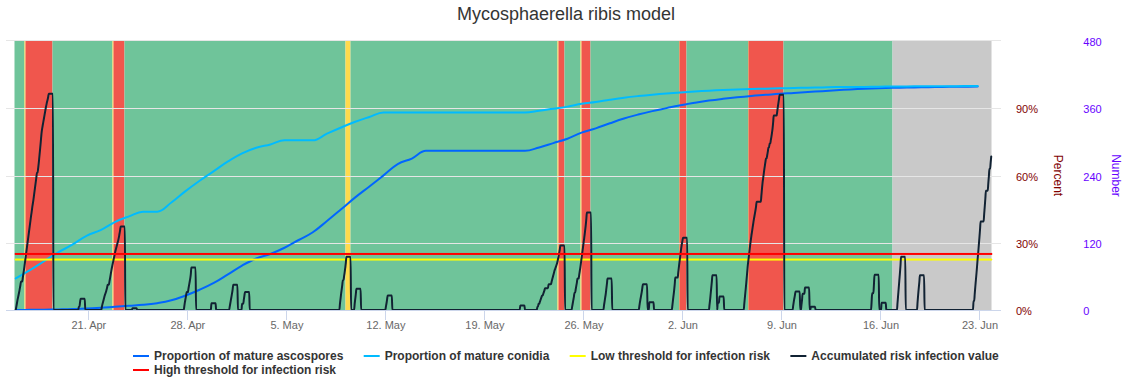
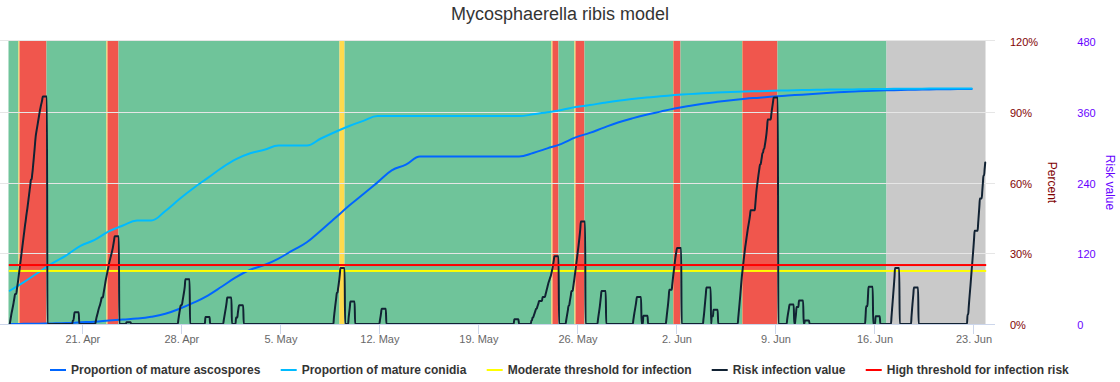
chore: Complete English description

diff --git a/src/test/java/no/nibio/vips/model/mycosribis/MycosphaerellaRibisModelTest.java b/src/test/java/no/nibio/vips/model/mycosribis/MycosphaerellaRibisModelTest.java
@@ -185,7 +185,7 @@ public class MycosphaerellaRibisModelTest {
     public void testGetModelName_0args() {
         System.out.println("getModelName");
         MycosphaerellaRibisModel instance = new MycosphaerellaRibisModel();
-        String expResult = "Mycosphaerella ribis model";
+        String expResult = "Model for Leaf Spot in Blackcurrant";
         String result = instance.getModelName();
         assertEquals(expResult, result);
     }

diff --git a/README.md b/README.md
@@ -1,30 +1,49 @@
 <img src="vipslogo_512.png" alt="VIPS Logo" height="250"/>
 
-# Mycosphaerella ribis in Blackcurrant
+# Leaf Spot (*Mycosphaerella ribis*) in Blackcurrant
 **&copy; 2026 NIBIO**
 
 **Arne Stensvand, Håvard Eikemo, Anne-Grete Roer Hjelkrem**
 
-Disease symptoms, sources of inoculum, and patterns of spore release of Mycosphaerella ribis, the 
-cause of Mycosphaerella leaf spot, were studied over three years in an organic blackcurrant planting 
-receiving no fungicide applications. In addition to typical foliar symptoms, also fruit lesions were 
-observed on the cultivars included in the study. Ascospores from leaf litter on the ground were trapped 
-from bud break in April to mid-to-late July, but 99% were released by one month before. Conidia 
-formed in old fruit cluster stalks overwintering on the blackcurrant shrubs were present from bud 
-break to early August, but 99% were trapped from late May to mid-July. Conidia were found in leaf 
-litter but were never captured in the spore trap, and ascospores were observed in old fruit cluster 
-stalks. Degree-day models (base = 0˚C) were used to estimate the proportion of mature spores. 
-Extended periods of dry conditions slowed spore maturation in the field. Models halting degree-day 
-accumulation after 4 or 7 days with no rain (< 0.2 mm) or leaf wetness of < 12 h per day, gave the best 
-performance for release of conidia or ascospores, respectively, if validated by data from controlled 
-conditions in the laboratory. Ascospore release was suppressed during night, and if rain and wetness 
-started during night and continued the following day, very few spores were released before sunrise. 
+The model indicates whether there is a risk of infection by the fungus *Mycosphaerella ribis*, which causes Mycosphaerella leaf spot in blackcurrant. The model is likely also suitable for forecasting infection by *Drepanopeziza ribis*, which causes anthracnose and leaf drop in the same crop. The two fungi have very similar life cycles and overlapping periods for spore dispersal and infection. There is considerable variation in susceptibility to Mycosphaerella leaf spot among blackcurrant cultivars used in Norway, but important cultivars such as ‘Ben Tron’ and ‘Ben Nare’ are highly susceptible. 
 
+*Drepanopeziza ribis* overwinters as fruiting bodies in old leaves on the ground, where ascospores are formed and will be dispersed by wind during moist weather in spring. It also overwinters in old berry cluster stalks that remain on the bushes after machine harvesting, and from these, conidiospores (conidia) are splash dispersed by rain or overhead irrigation. The model describes spore maturation and the periods when dispersal of both ascospores and conidia may occur, which to a large extent happens during the same period in spring. At the same time, the model indicates when infection risk is present. 
 
-The present investigation provides new information that may be used when planning sanitary 
-measures to reduce primary inoculum and predict spore release patterns for Mycosphaerella leaf spot.
+<img src="src/main/resources/images/description_figure_1.png"/>
 
+*Fig 1. Leaf spot on fresh leaves (A). In spring, infection arises from ascospores produced in fruiting bodies in old leaves on the ground (B), and from conidia produced on old berry cluster stalks on the shoots (C). Photos: A. Stensvand.*
+
+Spores are normally dispersed from before bud break until mid-June, although this varies somewhat between years. The most important period of spore dispersal is typically from a couple of weeks before to a couple of weeks after flowering. Maturation of both spore types in overwintered plant material depends on moisture. If there are extended periods without precipitation and moist conditions, maturation will therefore slow down or stop. Such dry periods are accounted for in the model. There is a diurnal rhythm in ascospore dispersal, with minimal dispersal at night. This is not adjusted for in the model because dispersal of conidia is not affected by light. 
+
+Moisture is required for infection, and the infection period depends on temperature, with the shortest infection time occurring around 20°C. No separate infection model has been developed for *M. ribis*, but we use the same model as for apple scab (*Venturia inaequalis*), because the two fungi are closely related and presumably have similar infection dynamics. 
+
+ 
+
+## Interpretation of the Forecast 
+
+Green indicates periods with no infection risk. Yellow indicates periods where some spores have been dispersed, and that infection is beginning or may have occurred. “Some” spore dispersal means that less than 3% of the spores (relative to the amount predicted for the entire season) have matured since the previous dispersal event. Red indicates that enough spores (≥ 3% of the seasonal total) have matured and potentially been dispersed for a significant infection event, and that weather conditions may have allowed infection. The size (width) of the yellow and red bars indicates how long the moist conditions have been suitable for infection. The actual infection risk depends on how many spores that may have been dispersed when precipitation and moisture occur. The inoculum pressure in a given field is decisive and depends on the level of infection the previous year. The model is updated daily and shows a forecast based on recorded weather data and a 2‑day weather forecast. 
+
+ 
 <img src="src/main/resources/images/description_figure_2_en.png"/>
+
+*Fig. 2. Forecast model for Mycosphaerella leaf spot using data from a weather station in Southern Norway in 2025: Percentage maturation of ascospores from old leaves (dark blue line) and conidiospores from old berry cluster stalks (light blue line); when accumulated infection risk based on temperature and leaf wetness (black line) crosses the yellow and red horizontal lines, there is moderate (yellow vertical area) or high (red vertical area) infection risk (measured as Risk Value).*
+
+ 
+
+## Forecasting Season 
+Forecasting begins around bud break and ends shortly after spore dispersal from overwintered plant material has finished, usually in June. No forecasts are given for secondary infections, i.e., those caused by conidia produced in newly infected (current season) plant material. 
+
+## Testing and Validation of the Model 
+The model for blackcurrant leaf spot was developed in Norway and is based on data on spore maturation and dispersal under Norwegian conditions, but it has been compared with similar studies of *M. ribis* in other countries. The sub‑models for ascospore and conidiospore maturation/dispersal have been validated under Norwegian conditions. Since we use infection data developed for the apple scab fungus to forecast infection by *M. ribis*, there is some uncertainty as to whether it provides a fully accurate picture of infection risk. However, in most cases, moist periods are sufficiently long for the infection risk to be real. There will nevertheless always be significant local variation in moisture after rainfall, which introduces some degree of uncertainty. 
+
+ 
+
+## Reference 
+Stensvand, A., Eikemo, H. & Hjelkrem, A.-G., R. 2026. *Mycosphaerella ribis* in blackcurrant and patterns of spore release from overwintering sources of inoculum. *Plant Disease*. https://doi.org/10.1094/PDIS-08-25-1675-RE 
+
+Stensvand, A., Eikemo, H., Hjelkrem, A.-G., R., Skog, T.-E. 2026. Varslingsmodell for bærbuskbladflekk i solbær. Norsk Frukt og Bær 29 (2):4-5. 
+
+
 
 ## Development
 
